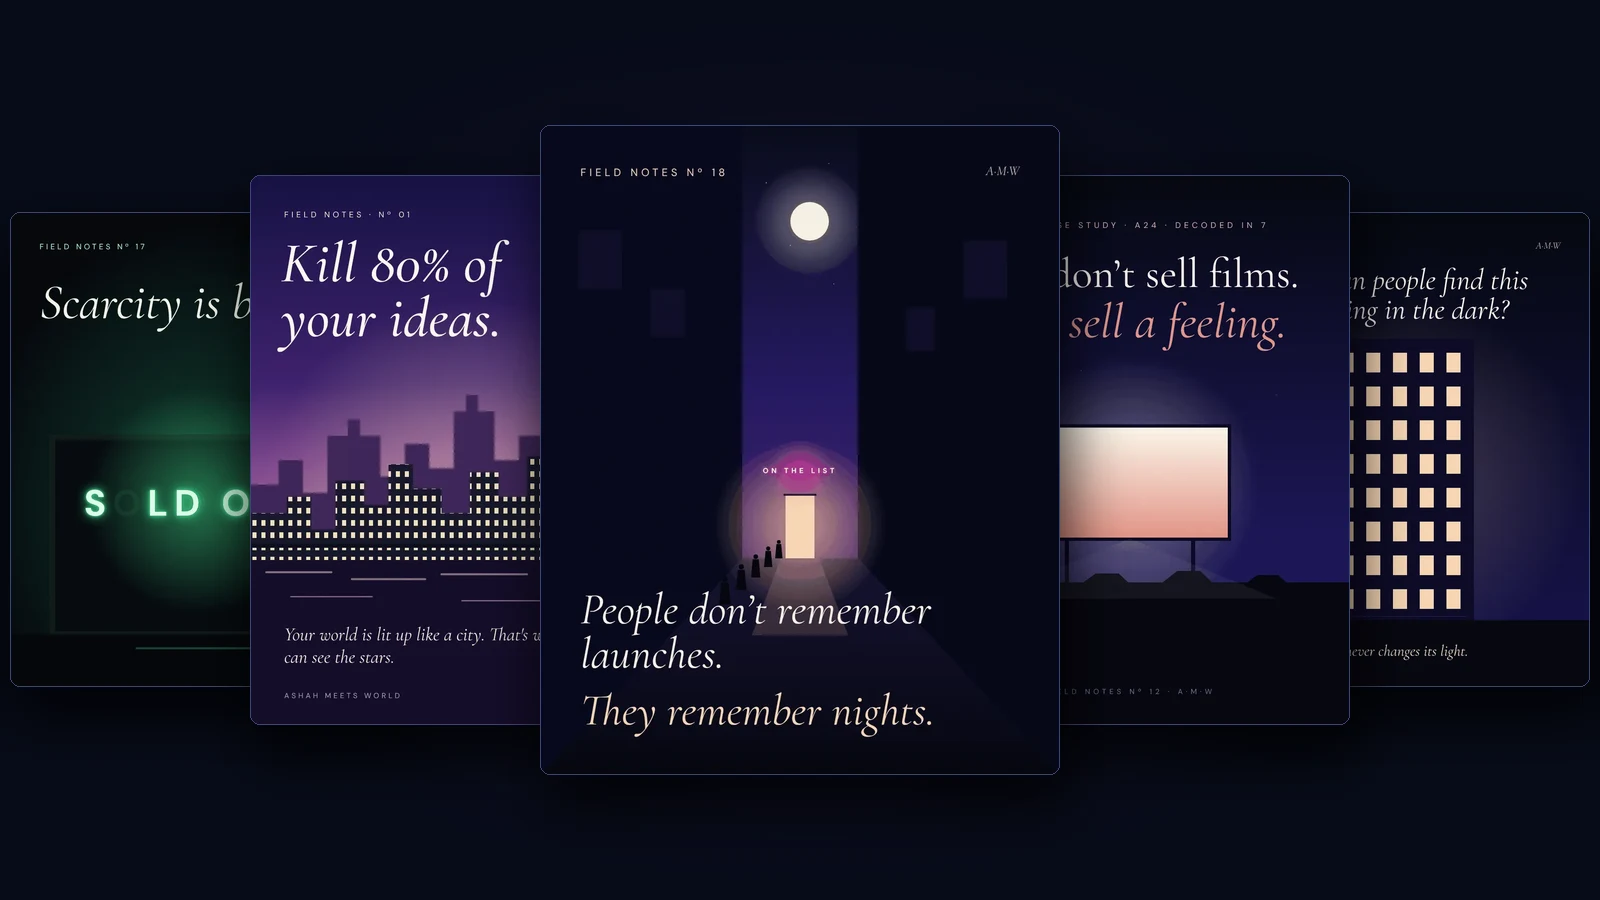
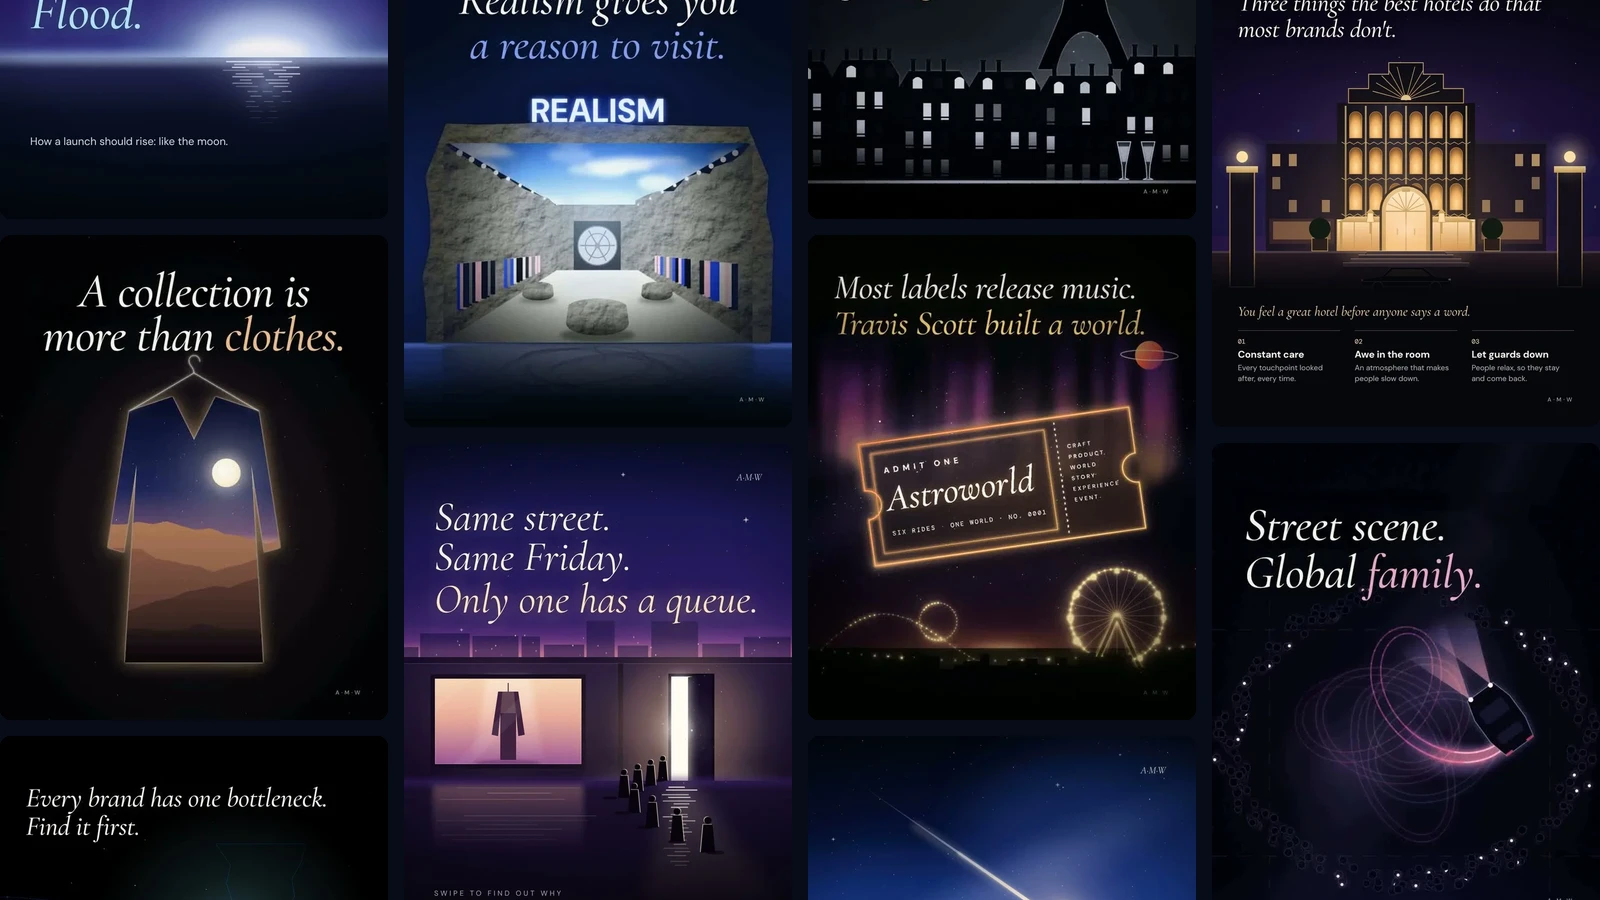
Field Notes card: a wall of the 12 posted covers, bigger (#140)
* Home: The work. section with New / Brand Identity / Art Direction / Creative Strategy tabs; /work/ as The reel with tabs, no subtitle

Claude-Session: https://claude.ai/code/session_01FfPBR3cb8AEUagfvjMVoWN

* Work pages: no Work / Contact nav, A·M·W mark goes home, footer = Resources, Book A Session, The Work + socials

Claude-Session: https://claude.ai/code/session_01FfPBR3cb8AEUagfvjMVoWN

* Work pages footer: Resources and The Work side by side, Book A Session as a button

Claude-Session: https://claude.ai/code/session_01FfPBR3cb8AEUagfvjMVoWN

* Lucid Brand Package: STUDIOS under the Lucid logo on the cover, page hero and card cover

Claude-Session: https://claude.ai/code/session_01FfPBR3cb8AEUagfvjMVoWN

* Work in Progress pill on the three brand packages

Claude-Session: https://claude.ai/code/session_01FfPBR3cb8AEUagfvjMVoWN

* Home work cards on phone: WIP pill keeps the cover marks clear

Claude-Session: https://claude.ai/code/session_01FfPBR3cb8AEUagfvjMVoWN

* Lucid and Sol Mafia packages: note that some images are Pinterest art direction references

Claude-Session: https://claude.ai/code/session_01FfPBR3cb8AEUagfvjMVoWN

* Home top-right links, Resources page, auto-turning work tabs, Field Notes collage thumbnail

Claude-Session: https://claude.ai/code/session_01FfPBR3cb8AEUagfvjMVoWN

* CLAUDE.md: Resources link note

Claude-Session: https://claude.ai/code/session_01FfPBR3cb8AEUagfvjMVoWN
[…]

diff --git a/src/lib/workfeature.ts b/src/lib/workfeature.ts
@@ -3,7 +3,7 @@
 // 3+ pieces = Spotlight (one big, two beside); 1 piece = its cover whole on the left, its words on the right.
 // The panel keeps one height on every tab so the page never jumps.
 import { skillColour } from './url';
-import { CARD_COVER } from './cards';
+import { CARD_COVER, CARD_PANEL } from './cards';
 
 type Entry = { id: string; data: any };
 const TABS = ['Brand Identity', 'Art Direction', 'Creative Strategy'] as const;
@@ -16,7 +16,7 @@ export function workFeature(work: Entry[], base: string, feedUrl: string): strin
   const frame = (e: Entry, one: boolean) => {
     const img = esc(u(CARD_COVER[e.id] ?? e.data.cover));
     const tall = e.data.coverRatio === 'portrait' && !CARD_COVER[e.id];
-    if (CARD_COVER[e.id] && one) return `<div class="fr cc"><img src="${img}" alt="${esc(e.data.title)}" loading="lazy" decoding="async"></div>`;
+    if (CARD_COVER[e.id] && one) return `<div class="fr cc"><img src="${esc(u(CARD_PANEL[e.id] ?? CARD_COVER[e.id]))}" alt="${esc(e.data.title)}" loading="lazy" decoding="async"></div>`;
     if (tall || one) return `<div class="fr${tall ? ' tall' : ''}"><span class="bl" style="background-image:url('${img}')"></span><img src="${img}" alt="${esc(e.data.title)}" loading="lazy" decoding="async"${live(e)}></div>`;
     return `<div class="fr"><img src="${img}" alt="${esc(e.data.title)}" loading="lazy" decoding="async"${live(e)}></div>`;
   };
@@ -54,7 +54,7 @@ export function workFeature(work: Entry[], base: string, feedUrl: string): strin
 .hwk .cd:hover .fr img{transform:scale(1.03)}
 .hwk .fr:after{content:"";position:absolute;inset:auto 0 0 0;height:1px;background:linear-gradient(90deg,transparent,var(--c),transparent);z-index:2}
 .hwk .fr.tall img,.hwk .one .fr img{position:relative;z-index:1;object-fit:contain}
-.hwk .fr.cc{background:#070B18}.hwk .one .fr.cc img{object-fit:contain}.hwk .fr .bl{position:absolute;inset:-30px;background:center/cover;filter:blur(30px) saturate(1.3) brightness(.5)}
+.hwk .fr.cc{background:#070B18}.hwk .one .fr.cc img{object-fit:cover}.hwk .fr .bl{position:absolute;inset:-30px;background:center/cover;filter:blur(30px) saturate(1.3) brightness(.5)}
 .hwk .big{grid-row:1/3}.hwk .big .fr{flex:1;min-height:0}
 .hwk .sm .fr,.hwk .half .fr{aspect-ratio:16/9}
 .hwk .half{grid-row:1/3}.hwk .g[data-n="2"]{grid-template-columns:1fr 1fr}

diff --git a/src/lib/cards.ts b/src/lib/cards.ts
@@ -1,5 +1,9 @@
 // Card thumbnails that differ from an entry's cover (Ashah, 20 Nov 2026).
-// Field Notes: a collage of five covers to show the range, instead of one live cover. Used on the home "The work." cards and the /work/ reel.
+// Field Notes: a wall of its covers, edge to edge, to show the range, instead of one live cover. Used on the home "The work." cards and the /work/ reel.
 export const CARD_COVER: Record<string, string> = {
   'field-notes': '/images/work/field-notes/collage.webp',
+};
+// The same collage cut for the home panel when Field Notes is the only piece on a tab (about 1.18 : 1, fills the frame).
+export const CARD_PANEL: Record<string, string> = {
+  'field-notes': '/images/work/field-notes/collage-panel.webp',
 };

diff --git a/CLAUDE.md b/CLAUDE.md
@@ -112,7 +112,7 @@ The site is currently a personal brand and portfolio. The paid offer is archived
 - Home top right (20 Nov 2026): Resources, The Work and the Book A Session button (same as the work pages' footer), in the `<nav>` of `home.html`. On phone the button sits beside the logo and the two links drop to a second line.
 - `/resources/` (`src/pages/resources/index.astro`, `<Base bare>`): heading "Resources." then the six workbook cards (covers `public/home/wb-*.webp`), each glowing in its workbook's colour. All Resources links point here.
 - Home "The work." tabs turn on their own every 3 s while the panel is on screen; a tap, click, key or sideways swipe stops it for good.
-- Field Notes card thumbnail (home + /work/) is a collage of five covers (`public/images/work/field-notes/collage.webp`), set in `src/lib/cards.ts` (`CARD_COVER`), so the cards no longer load the live Instagram cover. The Field Notes entry's own `cover` is untouched.
+- Field Notes card thumbnail (home + /work/) is a wall of the 12 posted Field Notes covers, edge to edge (`public/images/work/field-notes/collage.webp`, 16:9; `collage-panel.webp` for the home panel when it is the only piece on a tab), set in `src/lib/cards.ts` (`CARD_COVER`, `CARD_PANEL`). Only posted covers (`public/images/field-notes/posts/*-1.webp`); the old drafts in `public/images/notes/` are never used, so the cards no longer load the live Instagram cover. The Field Notes entry's own `cover` is untouched.
 - Work pages (`/work/` and `/work/<slug>/`) use `<Base bare>`: no Work / Contact nav at the top and no floating phone nav (the A·M·W mark is the way home); the footer shows Resources (/resources/) and The Work side by side, then a Book A Session button (/session/, his button gradient), plus the social icons. Other pages keep the normal header and footer.
 
 ## Field Notes page (20 Nov 2026, Ashah's pick: mock-up A "The wall")
